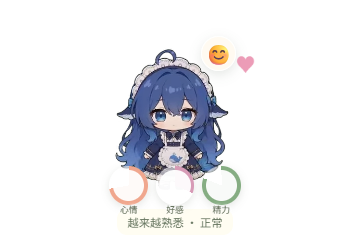
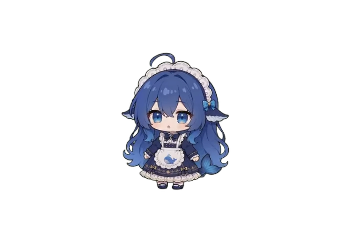
fix(pet-ui): 立绘窗仅显示宠物形象

Changed region(s): [[0.3143, 0.2042, 0.6857, 0.9625], [0.6, 0.175, 0.7429, 0.3208]]

diff --git a/apps/pet-ui/src/ui.tsx b/apps/pet-ui/src/ui.tsx
@@ -1,5 +1,5 @@
 import { useEffect, useRef, useState } from 'react';
-import type { CSSProperties, FormEvent, KeyboardEvent, MouseEvent } from 'react';
+import type { FormEvent, KeyboardEvent, MouseEvent } from 'react';
 import { Activity, BookOpen, Bot, MessageCircle, Paperclip, PawPrint, Plus, Send, Settings2, Sparkles, Wifi, WifiOff, X } from 'lucide-react';
 import { request, subscribeEvents, usePetdStatus } from './petd';
 import { MoodSettingsPanel } from './mood-panel';
@@ -132,26 +132,12 @@ export function App() {
 }
 
 function PetOverlay() {
-  const { enabled, state, lastChange, applySnapshot } = useMoodState();
-  const [showMoodValues] = useMoodNumberPreference();
-  const [feedback, setFeedback] = useState(false);
-  const [chatNudge, setChatNudge] = useState(false);
+  const { enabled } = useMoodState();
   const pokeTimer = useRef<number | undefined>(undefined);
-  const feedbackTimer = useRef<number | undefined>(undefined);
-  useEffect(() => {
-    if (lastChange?.source !== 'chat') return;
-    setChatNudge(true);
-    const timer = window.setTimeout(() => setChatNudge(false), 360);
-    return () => window.clearTimeout(timer);
-  }, [lastChange]);
   async function poke() {
-    if (enabled !== true || !state) return;
+    if (enabled !== true) return;
     try {
-      const snapshot = await request('mood.poke', {});
-      applySnapshot(snapshot);
-      setFeedback(true);
-      if (feedbackTimer.current) window.clearTimeout(feedbackTimer.current);
-      feedbackTimer.current = window.setTimeout(() => setFeedback(false), 320);
+      await request('mood.poke', {});
     } catch { /* pet window keeps the interaction quiet when petd is offline */ }
   }
   function onClick(event: MouseEvent) {
@@ -162,26 +148,9 @@ function PetOverlay() {
     if (pokeTimer.current) window.clearTimeout(pokeTimer.current);
     void window.petdBootstrap?.showChat();
   }
-  const moodFace = state?.tiers.mood === '很低落' ? '😔' : state?.tiers.mood === '有点闷' ? '😶' : state?.tiers.mood === '平静' ? '🙂' : state?.tiers.mood === '心情不错' ? '😊' : state?.tiers.mood === '很开心' ? '🥰' : '🐟';
-  const affectionCopy = state?.tiers.affection === '还生疏' ? '慢慢熟悉你' : state?.tiers.affection === '逐渐熟悉' ? '越来越熟悉' : state?.tiers.affection === '比较亲近' ? '喜欢陪着你' : state?.tiers.affection === '很黏你' ? '最喜欢黏着你' : '';
-  const sleepy = state?.tiers.energy === '很累' || state?.tiers.energy === '有点乏';
-  return <div className={`pet-overlay ${feedback ? 'pet-feedback' : ''} ${chatNudge ? 'pet-chat-nudge' : ''} ${sleepy ? 'pet-sleepy' : ''}`} onClick={onClick} onDoubleClick={openChat} onContextMenu={(event) => { event.preventDefault(); void window.petdBootstrap?.showPetMenu(); }} title="点一下摸摸 · 双击打开聊天 · 右键菜单">
+  return <div className="pet-overlay" onClick={onClick} onDoubleClick={openChat} onContextMenu={(event) => { event.preventDefault(); void window.petdBootstrap?.showPetMenu(); }} title="点一下摸摸 · 双击打开聊天 · 右键菜单">
     <svg className="pet-alpha-filter" aria-hidden="true"><defs><filter id="pet-alpha-fix"><feComponentTransfer><feFuncA type="linear" slope="1" intercept="-0.0039215686"/></feComponentTransfer></filter></defs></svg>
-    <div className="pet-face" role="img" aria-label={state?.tiers.mood ?? '情绪读取中'}>{enabled && state ? moodFace : '🐟'}</div>
     <div className="pet-float"><video src={fishIdle} autoPlay loop muted playsInline aria-label="蓝色大肥鱼女仆，待机呼吸动画"/></div>
-    {enabled && state && <div className="pet-mood-rings" role="group" aria-label={`${state.tiers.mood}、${state.tiers.affection}、${state.tiers.energy}`}>
-      <MoodRing label="心情" tier={state.tiers.mood} value={state.mood} color="#f0a78e" showValue={showMoodValues}/>
-      <MoodRing label="好感" tier={state.tiers.affection} value={state.affection} color="#d79bb6" showValue={showMoodValues}/>
-      <MoodRing label="精力" tier={state.tiers.energy} value={state.energy} color="#86ad83" showValue={showMoodValues}/>
-    </div>}
-    <div className="pet-hint">{enabled && state ? `${affectionCopy} · ${state.tiers.energy}` : '双击打开聊天'}</div>
-    {feedback && <span className="pet-heart" aria-hidden="true">♥</span>}
   </div>;
-}
-
-function MoodRing({ label, tier, value, color, showValue }: { label: string; tier: string; value: number; color: string; showValue: boolean }) {
-  return <span className="pet-mood-ring" title={`${label}：${tier}`} aria-label={`${label}：${tier}`} style={{ '--ring-value': `${Math.max(0, Math.min(100, value))}%`, '--ring-color': color } as CSSProperties}>
-    <i>{showValue ? Number(value.toFixed(1)) : ''}</i><small>{label}</small>
-  </span>;
 }
 

diff --git a/apps/pet-ui/src/pet.css b/apps/pet-ui/src/pet.css
@@ -1,3 +1,1 @@
 :root:has(.pet-overlay),body:has(.pet-overlay){min-width:0;min-height:0;background:transparent;overflow:hidden}.pet-overlay{width:100vw;height:100vh;display:flex;align-items:center;justify-content:center;position:relative;-webkit-app-region:drag;user-select:none}.pet-float{width:110px;height:110px;border-radius:50%;display:grid;place-items:center;font-size:64px;background:radial-gradient(circle at 35% 30%,#fffdf0,#e4edda 68%,#cddbc3);box-shadow:0 12px 32px #35433033, inset 0 2px 10px #ffffffaa;animation:bob 3.2s ease-in-out infinite;cursor:grab}.pet-hint{position:absolute;bottom:4px;opacity:0;transition:opacity .2s;background:#fffdf0dd;color:#66755f;padding:4px 8px;border-radius:8px;font:9px sans-serif;white-space:nowrap}.pet-overlay:hover .pet-hint{opacity:1}@keyframes bob{0%,100%{transform:translateY(0) rotate(-3deg)}50%{transform:translateY(-7px) rotate(3deg)}}
-
-.pet-face{position:absolute;top:29px;right:91px;z-index:2;width:28px;height:28px;display:grid;place-items:center;border:1px solid #ffffffd9;border-radius:50%;background:#fffaf0ed;box-shadow:0 3px 10px #34473224;font:16px/1 sans-serif;-webkit-app-region:no-drag}.pet-mood-rings{position:absolute;bottom:28px;display:flex;align-items:center;gap:6px;z-index:2;-webkit-app-region:no-drag}.pet-mood-ring{--ring-value:0%;--ring-color:#88a17d;width:31px;height:31px;display:grid;place-items:center;position:relative;border-radius:50%;background:conic-gradient(var(--ring-color) var(--ring-value),#ffffff95 0);box-shadow:0 2px 7px #33402b22}.pet-mood-ring:before{content:"";position:absolute;inset:3px;border-radius:50%;background:#fffffff0}.pet-mood-ring i{z-index:1;font:7px/1 sans-serif;font-style:normal;color:#626b5b}.pet-mood-ring small{position:absolute;top:32px;font:7px/1 sans-serif;color:#59654f;text-shadow:0 1px 3px white,0 -1px 3px white;white-space:nowrap}.pet-heart{position:absolute;top:37px;left:calc(50% + 46px);z-index:3;color:#e98dac;font-size:20px;animation:heart-rise .32s ease-out both;-webkit-app-region:no-drag}.pet-feedback .pet-float{animation:pet-hop .32s ease-out}.pet-chat-nudge .pet-float{filter:brightness(1.06);transform:scale(1.025)}.pet-sleepy .pet-float{animation-duration:6s;filter:saturate(.88)}.pet-sleepy .pet-face:after{content:"z";position:absolute;right:-6px;top:-5px;color:#8292a4;font:10px Georgia,serif}.pet-overlay.pet-feedback .pet-hint{opacity:1}@keyframes pet-hop{0%{transform:translateY(0) scale(1)}45%{transform:translateY(-11px) scale(1.04)}100%{transform:translateY(0) scale(1)}}@keyframes heart-rise{0%{opacity:0;transform:translateY(7px) scale(.65)}30%{opacity:1}100%{opacity:0;transform:translateY(-15px) scale(1.1)}}

diff --git a/apps/pet-ui/src/pet-overlay.test.tsx b/apps/pet-ui/src/pet-overlay.test.tsx
@@ -30,19 +30,19 @@ beforeEach(() => {
 afterEach(() => { window.history.replaceState({}, '', '/'); cleanup(); });
 
 describe('PetOverlay mood interaction', () => {
-  it('pokes once on a single click and shows short feedback', async () => {
+  it('pokes once on a single click while keeping the pet window artwork-only', async () => {
     render(<App/>);
-    await screen.findByText('😊');
+    await screen.findByLabelText('蓝色大肥鱼女仆，待机呼吸动画');
     const pet = screen.getByTitle('点一下摸摸 · 双击打开聊天 · 右键菜单');
     fireEvent.click(pet);
     await waitFor(() => expect(mocks.request).toHaveBeenCalledWith('mood.poke', {}), { timeout: 1000 });
-    expect(pet.classList.contains('pet-feedback')).toBe(true);
-    expect(screen.getByText('♥')).toBeTruthy();
+    expect(pet.querySelector('.pet-face, .pet-mood-rings, .pet-heart, .pet-hint')).toBeNull();
+    expect(pet.textContent).toBe('');
   });
 
   it('opens chat on double-click without poking', async () => {
     render(<App/>);
-    await screen.findByText('😊');
+    await screen.findByLabelText('蓝色大肥鱼女仆，待机呼吸动画');
     const pet = screen.getByTitle('点一下摸摸 · 双击打开聊天 · 右键菜单');
     fireEvent.click(pet, { detail: 1 });
     fireEvent.click(pet, { detail: 2 });
@@ -61,10 +61,12 @@ describe('PetOverlay mood interaction', () => {
     expect(mocks.request).not.toHaveBeenCalledWith('mood.poke', {});
   });
 
-  it('uses a subtle class when chat mood changes arrive', async () => {
+  it('does not show chat mood changes on the pet artwork', async () => {
     render(<App/>);
-    await screen.findByText('😊');
+    await screen.findByLabelText('蓝色大肥鱼女仆，待机呼吸动画');
     act(() => { for (const listener of mocks.events) listener({ type: 'event', event: 'mood.changed', data: { state: snapshot, applied: [], source: 'chat' } }); });
-    expect(screen.getByTitle('点一下摸摸 · 双击打开聊天 · 右键菜单').classList.contains('pet-chat-nudge')).toBe(true);
+    const pet = screen.getByTitle('点一下摸摸 · 双击打开聊天 · 右键菜单');
+    expect(pet.textContent).toBe('');
+    expect(pet.classList.contains('pet-chat-nudge')).toBe(false);
   });
 });

diff --git a/apps/pet-ui/README.md b/apps/pet-ui/README.md
@@ -20,7 +20,7 @@ The Memory panel uses `memory.list/read/write/history/diff` and `blob.list/put/g
 
 ## M7 mood and status
 
-Settings shows petd-backed mood, affection, energy, recent history, and read-only mood config. Exact values are hidden by default; the debug checkbox is stored in local UI preferences and shared with the pet window. The pet window shows tier-driven expression, three circular indicators, a sleepy motion at low energy, a single-click poke response, and a subtle chat-change expression. Both windows subscribe to `mood.changed` and reload `mood.status` on reconnect; pet-ui does not calculate chat mood changes.
+Settings shows petd-backed mood, affection, energy, recent history, and read-only mood config. Exact values are hidden by default; the debug checkbox is stored in local UI preferences. The pet window displays only the idle portrait; a single click still sends `mood.poke` without adding mood indicators or expression overlays. The settings view subscribes to `mood.changed` and reloads `mood.status` on reconnect; pet-ui does not calculate chat mood changes.
 
 Mock coverage: `pnpm --filter @petd/pet-ui test` — 19 component checks passing.
 
@@ -28,7 +28,7 @@ Real petd smoke run (using `%TEMP%\petd-ui-dev`, not the default home): connecte
 
 ![M7 settings mood panel](docs/evidence/m7-settings.png)
 
-![M7 pet window mood rings and poke feedback](docs/evidence/m7-pet.png)
+![Pet window showing only the portrait](docs/evidence/m7-pet.png)
 
 ## Screenshots and build evidence
 

diff --git a/apps/pet-ui/docs/superpowers/plans/2026-11-15-mood-panel.md b/apps/pet-ui/docs/superpowers/plans/2026-11-15-mood-panel.md
@@ -71,7 +71,7 @@
 
 - [x] Add tests proving poke calls once, triggers feedback, and double-click only opens chat.
 - [x] Show face/tier caption and three circular indicators; exact numbers only when debug preference is enabled.
-- [x] Add 300ms bounce/heart feedback after successful `mood.poke` and subtle chat-source expression response.
+- [x] Keep the pet window artwork-only; `mood.poke` remains silent and chat mood changes do not add a visual overlay.
 - [x] Run focused tests and full suite.
 
 ### Task 4: Integration evidence and handoff
